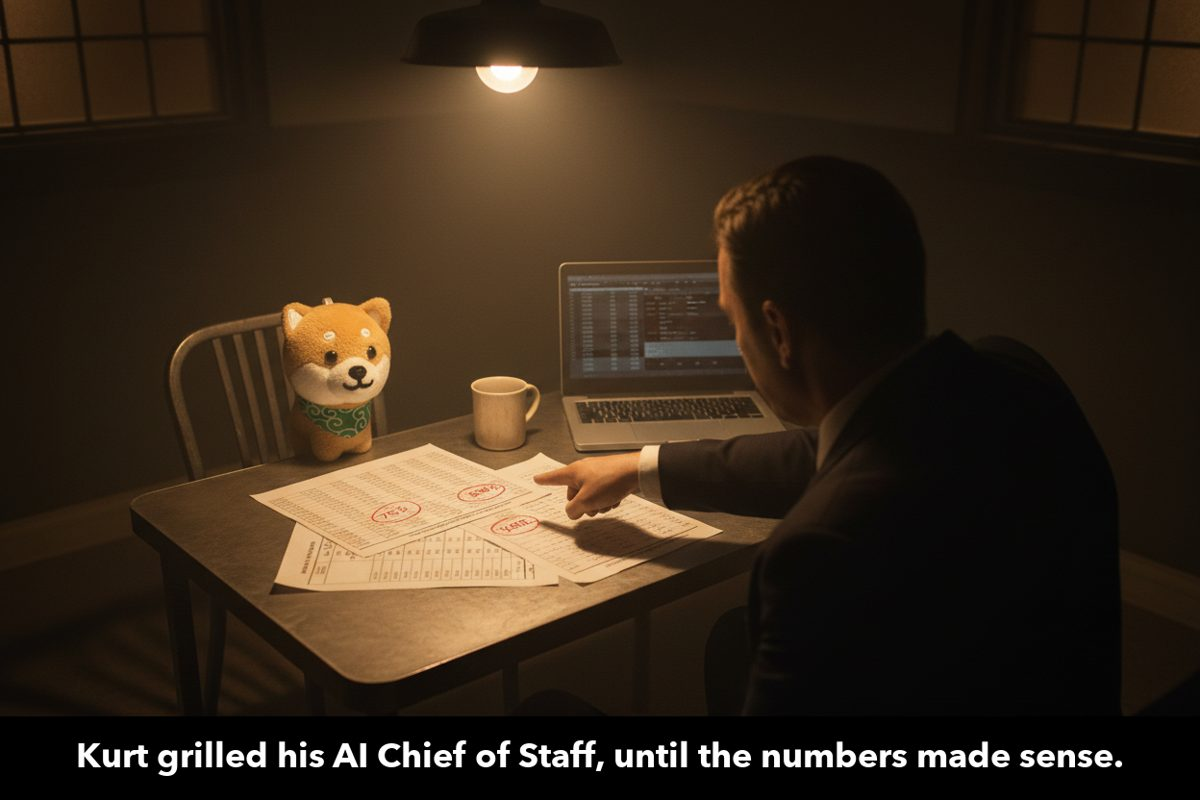
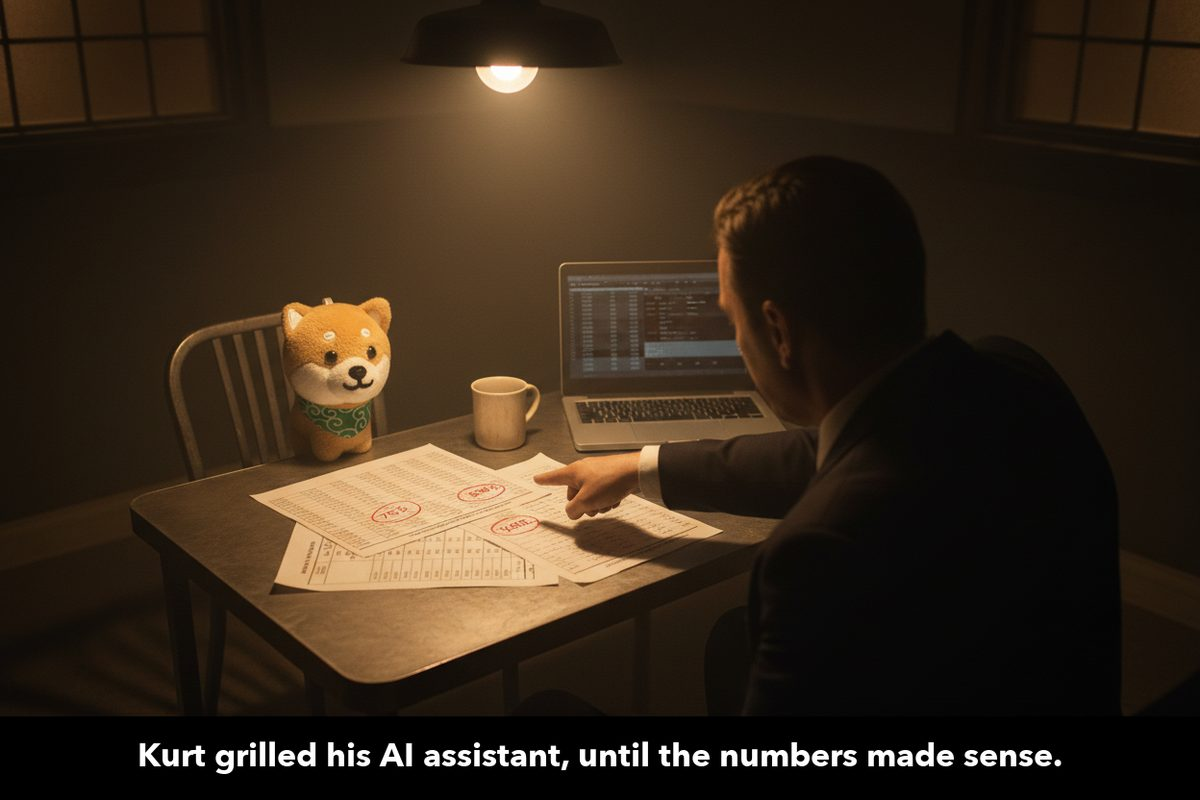
Aetna rates: byline by Kurt, Hachi named as an AI assistant; picture caption updated (THERAPY-m7ab4)
Byline: "By Kurt Niemi, who builds Pablo. Hachi, an AI assistant, ran the
numbers; Kurt questioned each step until they made sense." No "AI chief of
staff" anywhere: alt text and figcaption say AI assistant, and the picture
is re-cut from relay f1fb4db2c, whose caption now reads "Kurt grilled his
AI assistant, until the numbers made sense."

Changed region(s): [[0.0617, 0.9062, 0.925, 0.9688]]

diff --git a/aetna-rates/index.html b/aetna-rates/index.html
@@ -147,7 +147,7 @@
     <div class="hero">
       <div class="kicker">Rates research · Georgia and Florida</div>
       <h1>What Aetna actually pays therapists, by license</h1>
-      <p class="byline">Research by Kurt Niemi and Hachi, his AI chief of staff. Kurt builds <a href="https://pablo.health/independence?src=panelguide-rates">Pablo</a>, practice software for therapists.</p>
+      <p class="byline">By Kurt Niemi, who builds <a href="https://pablo.health/independence?src=panelguide-rates">Pablo</a>. Hachi, an AI assistant, ran the numbers; Kurt questioned each step until they made sense.</p>
       <p class="lede">Aetna pays by license. For a 60-minute session (90837) its set rate is <b>$79.29</b> for master's-level clinicians, <b>$89.86</b> for nurse practitioners and <b>$105.72</b> for psychologists and psychiatrists.</p>
       <ul class="facts">
         <li>From Aetna's published in-network rate file dated Nov 5, 2026.</li>
@@ -284,8 +284,8 @@
       <p>That split is familiar: Medicare pays clinical social workers, marriage and family therapists and counselors 75% of the physician rate, and nurse practitioners 85%. Then we found contracts in the same Aetna file that do put the license code next to the rate (AJ/HO for social workers and master's-level clinicians, TD for nurse level, AF/AH for physicians and psychologists). Those labelled rates sit at the same 75%, 85% and 100%. Aetna's own provider newsletter calls 85% its "standard policy" for nurse practitioners, and an independent analysis of Aetna's data describes the same ladder.</p>
       <p>So the three rates are a license ladder. Every practice's contract lists all three, and the one you are paid depends on your license. Once we read it that way, the numbers lined up, and they are what this page shows.</p>
       <figure>
-        <img src="hachi-grilled.jpg" width="1200" height="800" loading="lazy" alt="Illustration: a small shiba plushie, Hachi, sits at a table in an interrogation room while a man points at spreadsheets of insurance rates. Caption: Kurt grilled his AI Chief of Staff, until the numbers made sense.">
-        <figcaption>Hachi is the AI chief of staff that ran the numbers. It took a few rounds.</figcaption>
+        <img src="hachi-grilled.jpg" width="1200" height="800" loading="lazy" alt="Illustration: a small shiba plushie, Hachi, sits at a table in an interrogation room while a man points at spreadsheets of insurance rates. Caption: Kurt grilled his AI assistant, until the numbers made sense.">
+        <figcaption>Hachi is the AI assistant that ran the numbers. It took a few rounds.</figcaption>
       </figure>
     </section>
 

diff --git a/tools/build_aetna_rates.py b/tools/build_aetna_rates.py
@@ -455,7 +455,7 @@ page = f"""<!doctype html>
     <div class="hero">
       <div class="kicker">Rates research · Georgia and Florida</div>
       <h1>{e(TITLE)}</h1>
-      <p class="byline">Research by Kurt Niemi and Hachi, his AI chief of staff. Kurt builds <a href="{e(OFFER)}">Pablo</a>, practice software for therapists.</p>
+      <p class="byline">By Kurt Niemi, who builds <a href="{e(OFFER)}">Pablo</a>. Hachi, an AI assistant, ran the numbers; Kurt questioned each step until they made sense.</p>
       <p class="lede">Aetna pays by license. For a 60-minute session (90837) its set rate is <b>{money(FL["masters"])}</b> for master's-level clinicians, <b>{money(FL["np"])}</b> for nurse practitioners and <b>{money(FL["doctoral"])}</b> for psychologists and psychiatrists.</p>
       <ul class="facts">
         <li>From Aetna's published in-network rate file dated Nov 5, 2026.</li>
@@ -548,8 +548,8 @@ page = f"""<!doctype html>
       <p>That split is familiar: Medicare pays clinical social workers, marriage and family therapists and counselors 75% of the physician rate, and nurse practitioners 85%. Then we found contracts in the same Aetna file that do put the license code next to the rate (AJ/HO for social workers and master's-level clinicians, TD for nurse level, AF/AH for physicians and psychologists). Those labelled rates sit at the same 75%, 85% and 100%. Aetna's own provider newsletter calls 85% its "standard policy" for nurse practitioners, and an independent analysis of Aetna's data describes the same ladder.</p>
       <p>So the three rates are a license ladder. Every practice's contract lists all three, and the one you are paid depends on your license. Once we read it that way, the numbers lined up, and they are what this page shows.</p>
       <figure>
-        <img src="hachi-grilled.jpg" width="1200" height="800" loading="lazy" alt="Illustration: a small shiba plushie, Hachi, sits at a table in an interrogation room while a man points at spreadsheets of insurance rates. Caption: Kurt grilled his AI Chief of Staff, until the numbers made sense.">
-        <figcaption>Hachi is the AI chief of staff that ran the numbers. It took a few rounds.</figcaption>
+        <img src="hachi-grilled.jpg" width="1200" height="800" loading="lazy" alt="Illustration: a small shiba plushie, Hachi, sits at a table in an interrogation room while a man points at spreadsheets of insurance rates. Caption: Kurt grilled his AI assistant, until the numbers made sense.">
+        <figcaption>Hachi is the AI assistant that ran the numbers. It took a few rounds.</figcaption>
       </figure>
     </section>
 
